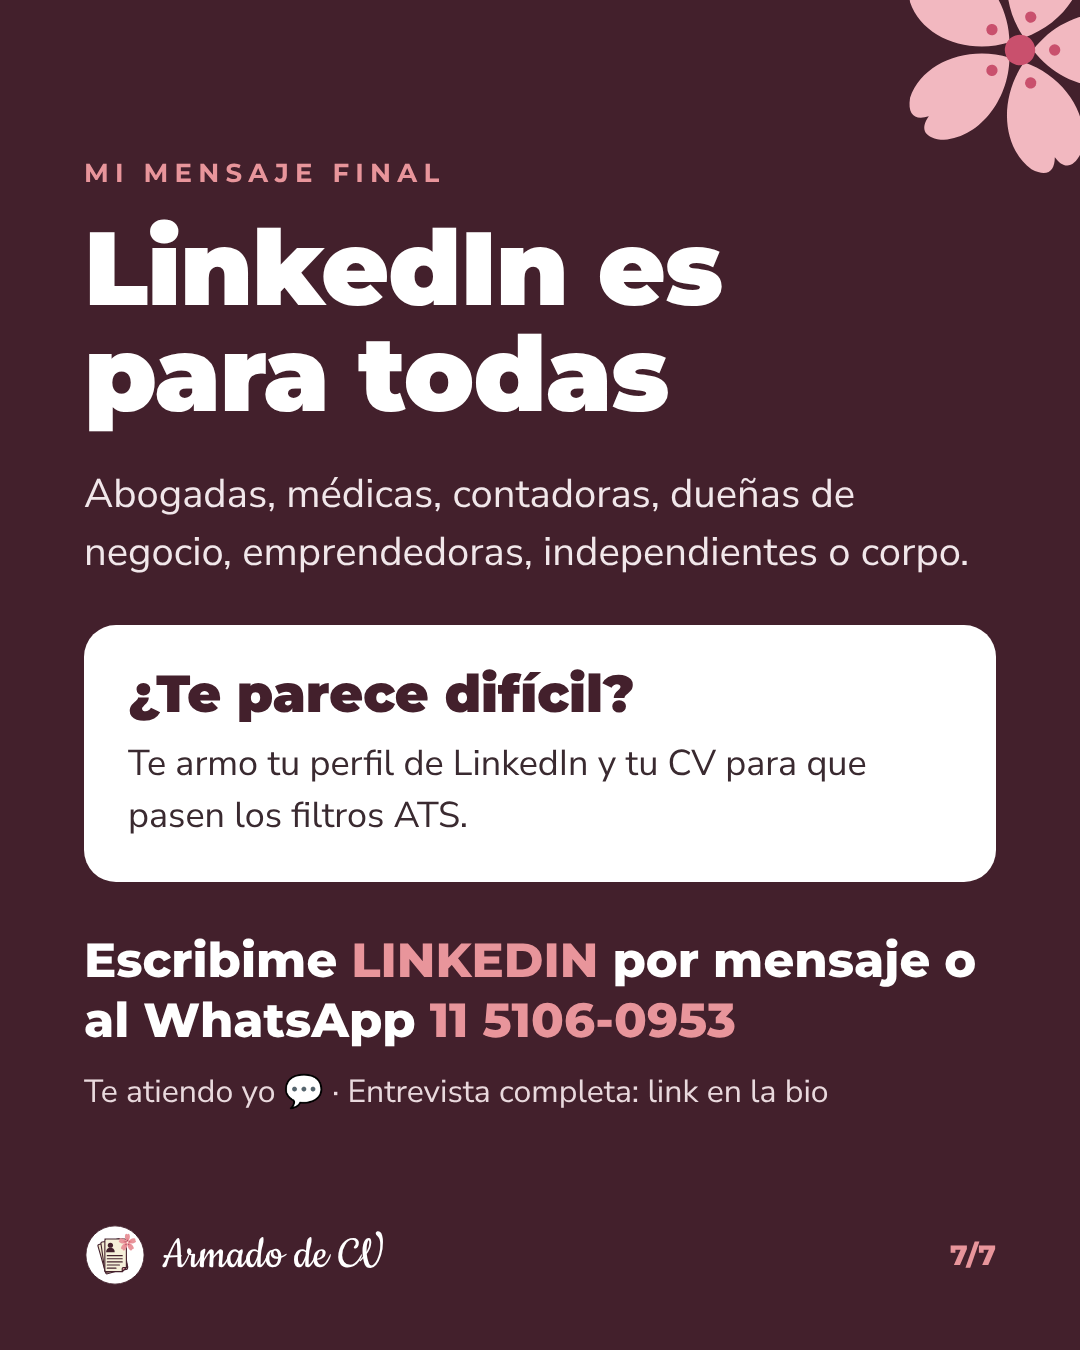
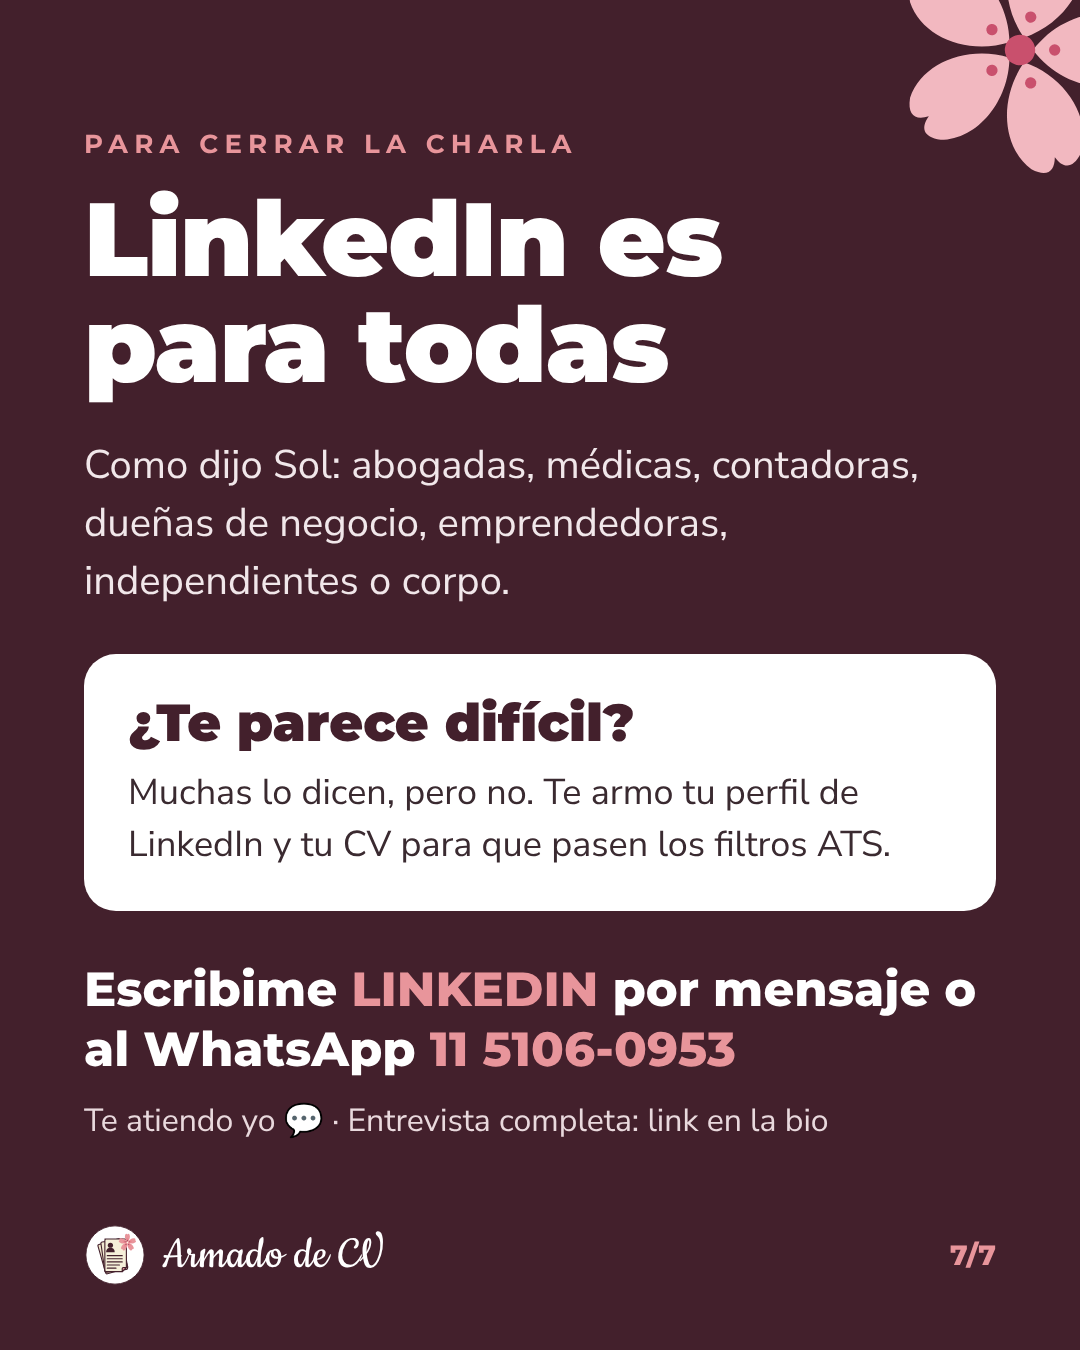
Digitalizadas: corrige frases atribuidas y actualiza el plan de reels
Con reconocimiento de voz se verificó quién dijo cada idea: "hoja de
ruta", "propósito que te hace única", "ADN" y "LinkedIn es para todas"
son de Sol. Se ajustan el carrusel, la historia de la encuesta y los
textos, y el plan describe los cinco reels finales en formato entrevista.

Claude-Session: https://claude.ai/code/session_016VySAL3amehbdCrxmcKUFQ

Changed region(s): [[0.0611, 0.0933, 0.9472, 0.84]]

diff --git a/docs/contenido-digitalizadas.md b/docs/contenido-digitalizadas.md
@@ -23,17 +23,17 @@ Los reels se arman cuando llegue el video (ver abajo).
 
 ## Reels para publicidad
 
-Formato: 9:16, solo Valeria en cuadro, subtítulos en Montserrat, gancho escrito en los primeros 2 segundos y placa final con el logo y el WhatsApp. Los tiempos salen de la transcripción y se ajustan al segundo con el video.
+Cinco fragmentos continuos de la entrevista, editados en formato entrevista: la cámara sigue a quien habla (detectado por la voz), en pantalla dividida se muestra el lado de quien habla, los cortes rápidos del video original se disimulan con un fundido tipo *morph cut* y cada reel termina con un fundido a la placa final. 1080×1920 desde el video original en 1080p. Afinado armonioso solo en Valeria; Sol aparece sin retoques. Subtítulos de Valeria en rosa y de Sol en amarillo; etiquetas con el nombre de cada una la primera vez que aparece.
 
-| # | Gancho en pantalla | Tramo | Duración | Uso |
-|---|---|---|---|---|
-| R1 | "¿Pongo en LinkedIn que soy mamá?" | 50:35 – 51:06 | ~30 s | **Anuncio 1** (el que más se comparte) |
-| R2 | "1.000 postulaciones. ¿Cuántas ve la empresa?" | 44:34 – 45:15 + 45:48 – 46:09 | ~45 s | **Anuncio 2** (lleva directo al CV ATS) |
-| R3 | "El error que más veo en los CV" | 46:26 – 46:58 + 47:14 – 47:38 | ~45 s | Orgánico |
-| R4 | "Tu titular de LinkedIn es tu filtro ATS" | 49:21 – 49:31 + 49:56 – 50:18 | ~30 s | Orgánico + LinkedIn |
-| R5 | "LinkedIn es para todas" | 51:06 – 51:31 + 51:34 – 51:51 | ~40 s | Anuncio de cierre / remarketing |
-| R6 | "La sección de LinkedIn que casi nadie usa" | 42:18 – 42:59 | ~35 s | Orgánico |
-| R7 | "Cómo llegar a gente que no te sigue en LinkedIn" | 48:19 – 49:12 | ~45 s | Solo LinkedIn personal |
+| Archivo | Tramo (YouTube) | Arranca con | Uso |
+|---|---|---|---|
+| `reel-digitalizadas-r1-mama.mp4` | 50:31 – 51:05 | Sol: "¿Pongo que soy mamá o no?" | **Anuncio 1** |
+| `reel-digitalizadas-r2-ats.mp4` | 44:22 – 45:12 | Sol: "¿Qué está funcionando hoy en LinkedIn?" | **Anuncio 2** |
+| `reel-digitalizadas-r3-error-cv.mp4` | 46:09 – 46:58 | Sol: el ejemplo de la psicóloga que se postula a redes | Orgánico |
+| `reel-digitalizadas-r4-titular.mp4` | 49:12 – 50:18 | Sol: "¿Qué consejo le dejás a una emprendedora?" | Orgánico + LinkedIn |
+| `reel-digitalizadas-r5-para-todas.mp4` | 51:06 – 51:51 | Sol: "Todas pueden estar en LinkedIn" | Cierre / remarketing |
+
+Quién dijo qué (verificado con reconocimiento de voz): "hoja de ruta", "propósito que te hace única", "ADN" y "LinkedIn es para todas: abogadas, médicas…" son de **Sol**. Los textos de abajo ya están ajustados para no atribuírselos a Valeria.
 
 ### Textos de cada reel (Instagram)
 
@@ -68,7 +68,7 @@ Lo conté en mi entrevista en Digitalizadas.
 ```
 El error que más veo en los CV: poner TODO 😅
 
-Gastronomía, psicología, corporativo, emprendimiento… todo junto. Tu CV es tu hoja de ruta, pero necesita foco: centralizá en lo que buscás hoy y vas a llegar a más empresas y a más clientes.
+Gastronomía, psicología, corporativo, emprendimiento… todo junto. Tu CV es tu ruta de vida, pero necesita foco: centralizá en lo que buscás hoy y vas a llegar a más empresas y a más clientes.
 
 👉 Guardalo para tu próxima actualización de CV.
 
@@ -79,7 +79,7 @@ Gastronomía, psicología, corporativo, emprendimiento… todo junto. Tu CV es t
 ```
 Tu titular de LinkedIn es tu filtro ATS 🎯
 
-Elegí 3 o 4 palabras con tus habilidades más fuertes, las que te hacen única. Eso es tu ADN profesional, y es lo que hace que te encuentren.
+Elegí 3 o 4 palabras con tus habilidades más fuertes (hard skills). Ese va a ser tu filtro: tu ATS. Y para todo lo demás, tenés el Acerca de.
 
 Lo conté en Digitalizadas 🎙
 
@@ -92,7 +92,7 @@ Lo conté en Digitalizadas 🎙
 ```
 LinkedIn es para todas 💼
 
-Abogadas, médicas, contadoras, dueñas de negocio, emprendedoras, independientes o corpo. Muchas dicen que es difícil, pero no: si te cuesta, me escribís y te ayudo.
+Lo dijo Sol en Digitalizadas y lo firmo: abogadas, médicas, contadoras, dueñas de negocio, emprendedoras, independientes o corpo. Muchas dicen que es difícil, pero no: si te cuesta, me escribís y te ayudo.
 
 Y te atiendo yo, siempre 💬
 
@@ -101,7 +101,7 @@ Y te atiendo yo, siempre 💬
 #linkedin #emprendedoras #mujeresquetrabajan #empleo #marcapersonal
 ```
 
-**R6 · Sección Servicios**
+**R6 · Sección Servicios** (pendiente de edición, tramo 42:18 – 42:59)
 ```
 La sección de LinkedIn que casi nadie usa: Servicios 🛠
 
@@ -144,7 +144,7 @@ Tres ideas que me quedaron:
 
 2⃣ El ATS ya está filtrando tu CV. Lo usan más empresas de las que pensamos, por eso hay que postularse con foco y no por postular.
 
-3⃣ Tu titular es tu filtro. Tres o cuatro palabras con tus habilidades más fuertes, las que te hacen única.
+3⃣ Tu titular es tu filtro ATS. Tres o cuatro palabras con tus habilidades más fuertes; el resto lo contás en el Acerca de.
 
 Gracias, Sol y comunidad de Digitalizadas, por el espacio 💜
 
@@ -153,7 +153,7 @@ Gracias, Sol y comunidad de Digitalizadas, por el espacio 💜
 #LinkedIn #ATS #MarcaPersonal #RecursosHumanos
 ```
 
-**Post 2 · martes 27/10** (con R7)
+**Post 2 · martes 27/10** (con un clip de la parte de reposteos, 48:19 – 49:12; pendiente de edición)
 ```
 ¿Por qué un post en LinkedIn llega a gente que no te sigue?
 
@@ -194,6 +194,6 @@ Si este post te sirvió, ya sabés qué hacer 😉 ♻
 | Lun 26/10 | R4 · Titular = filtro ATS | |
 | Mar 27/10 | | Post 2 |
 | Mié 28/10 | R5 · LinkedIn es para todas | |
-| Vie 30/10 | R6 · Sección Servicios | |
+| Vie 30/10 | R6 · Sección Servicios (pendiente de edición) | |
 
 Horario: 20:00, igual que el resto de las publicaciones.
